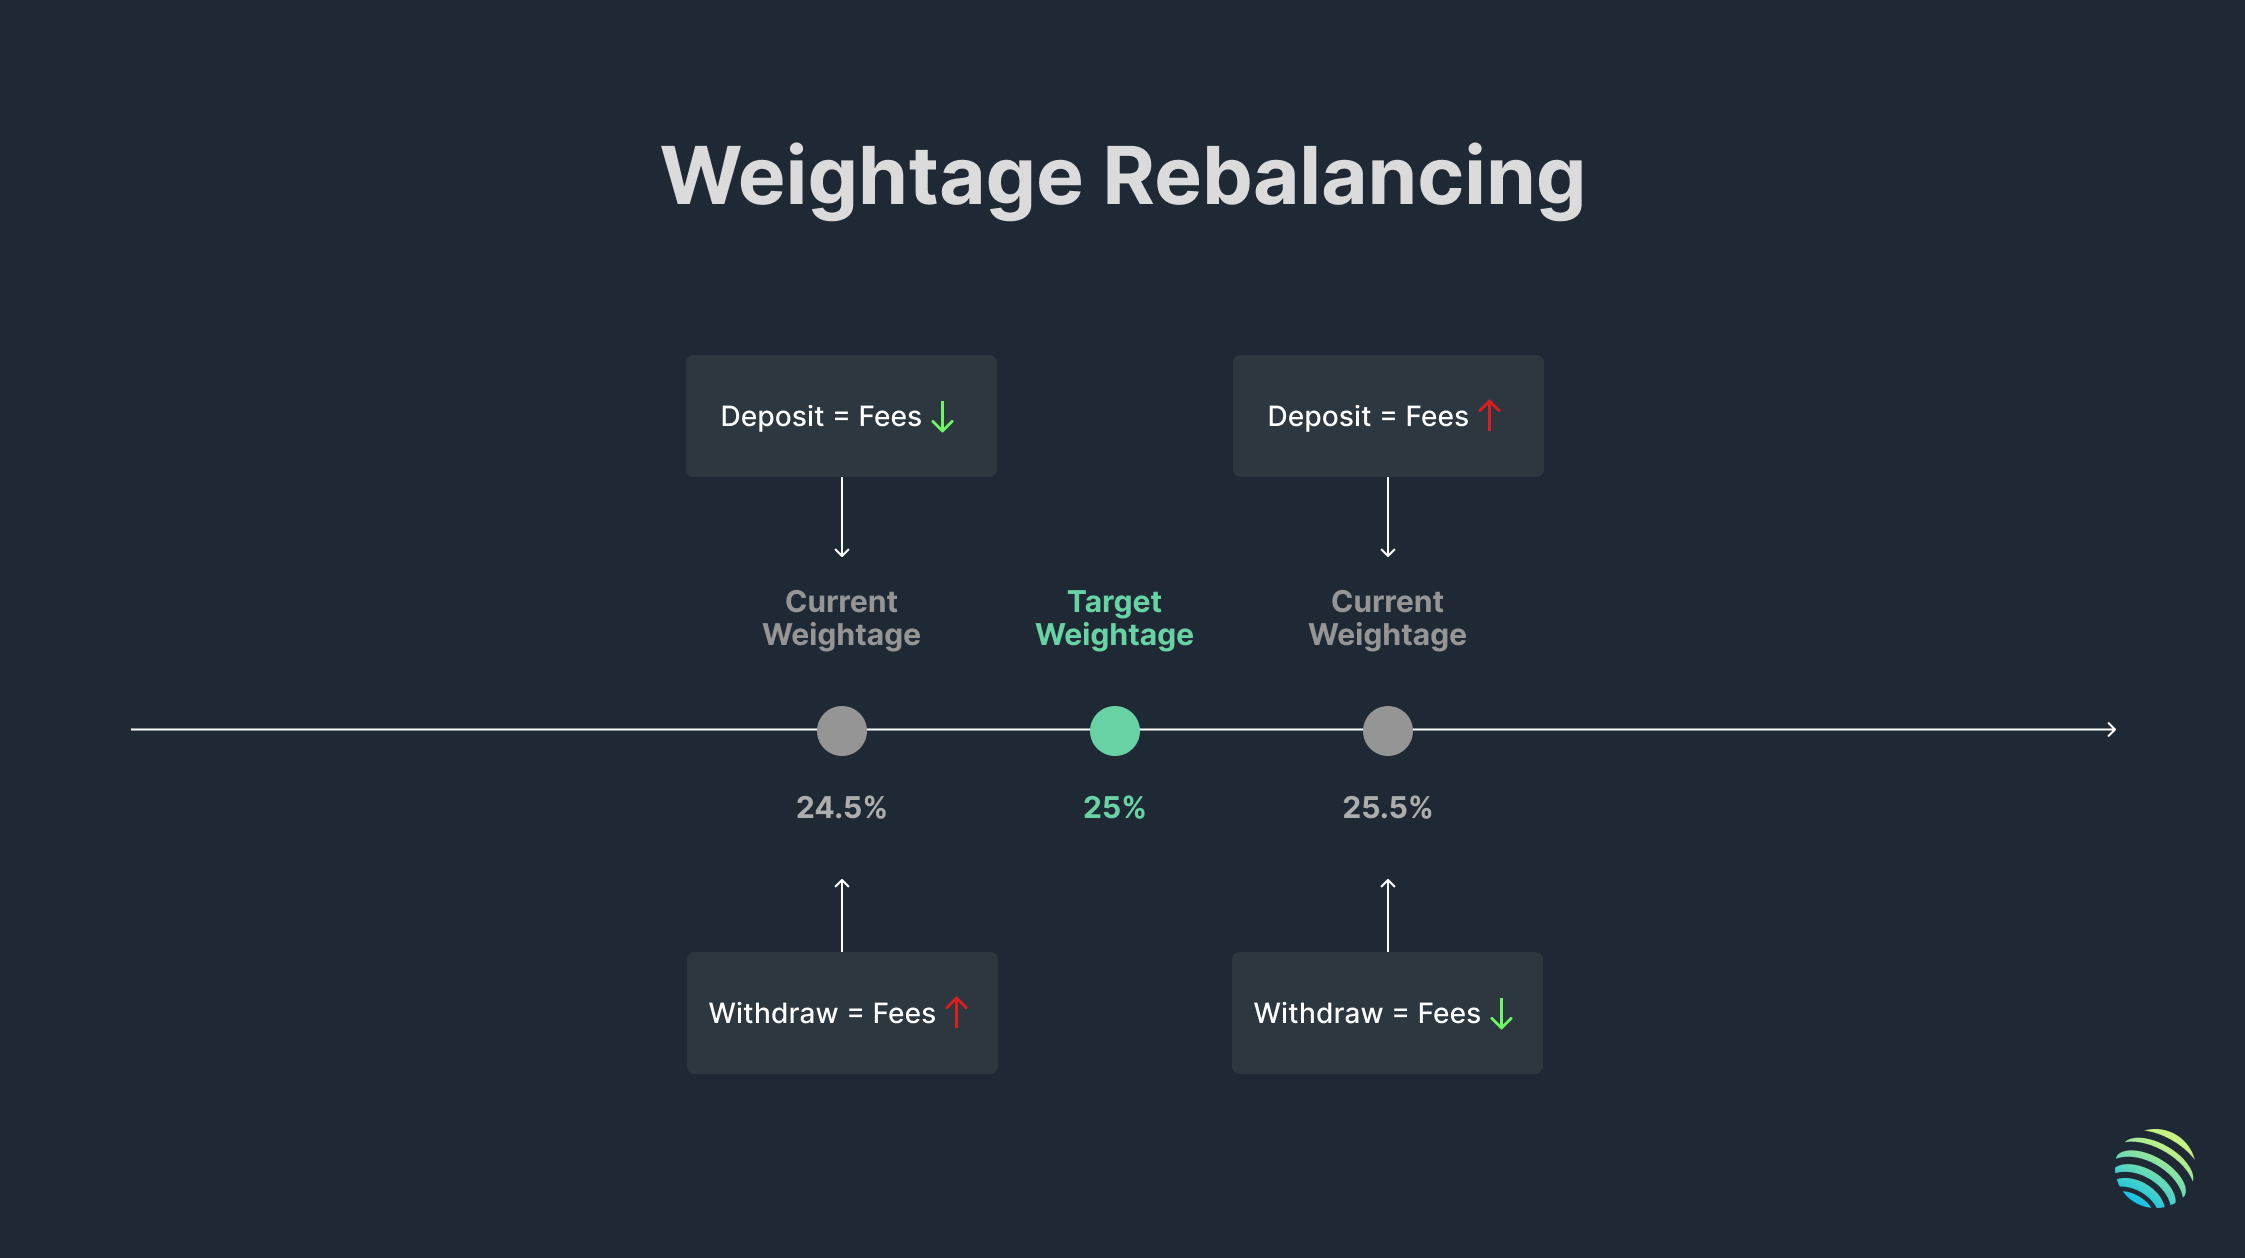
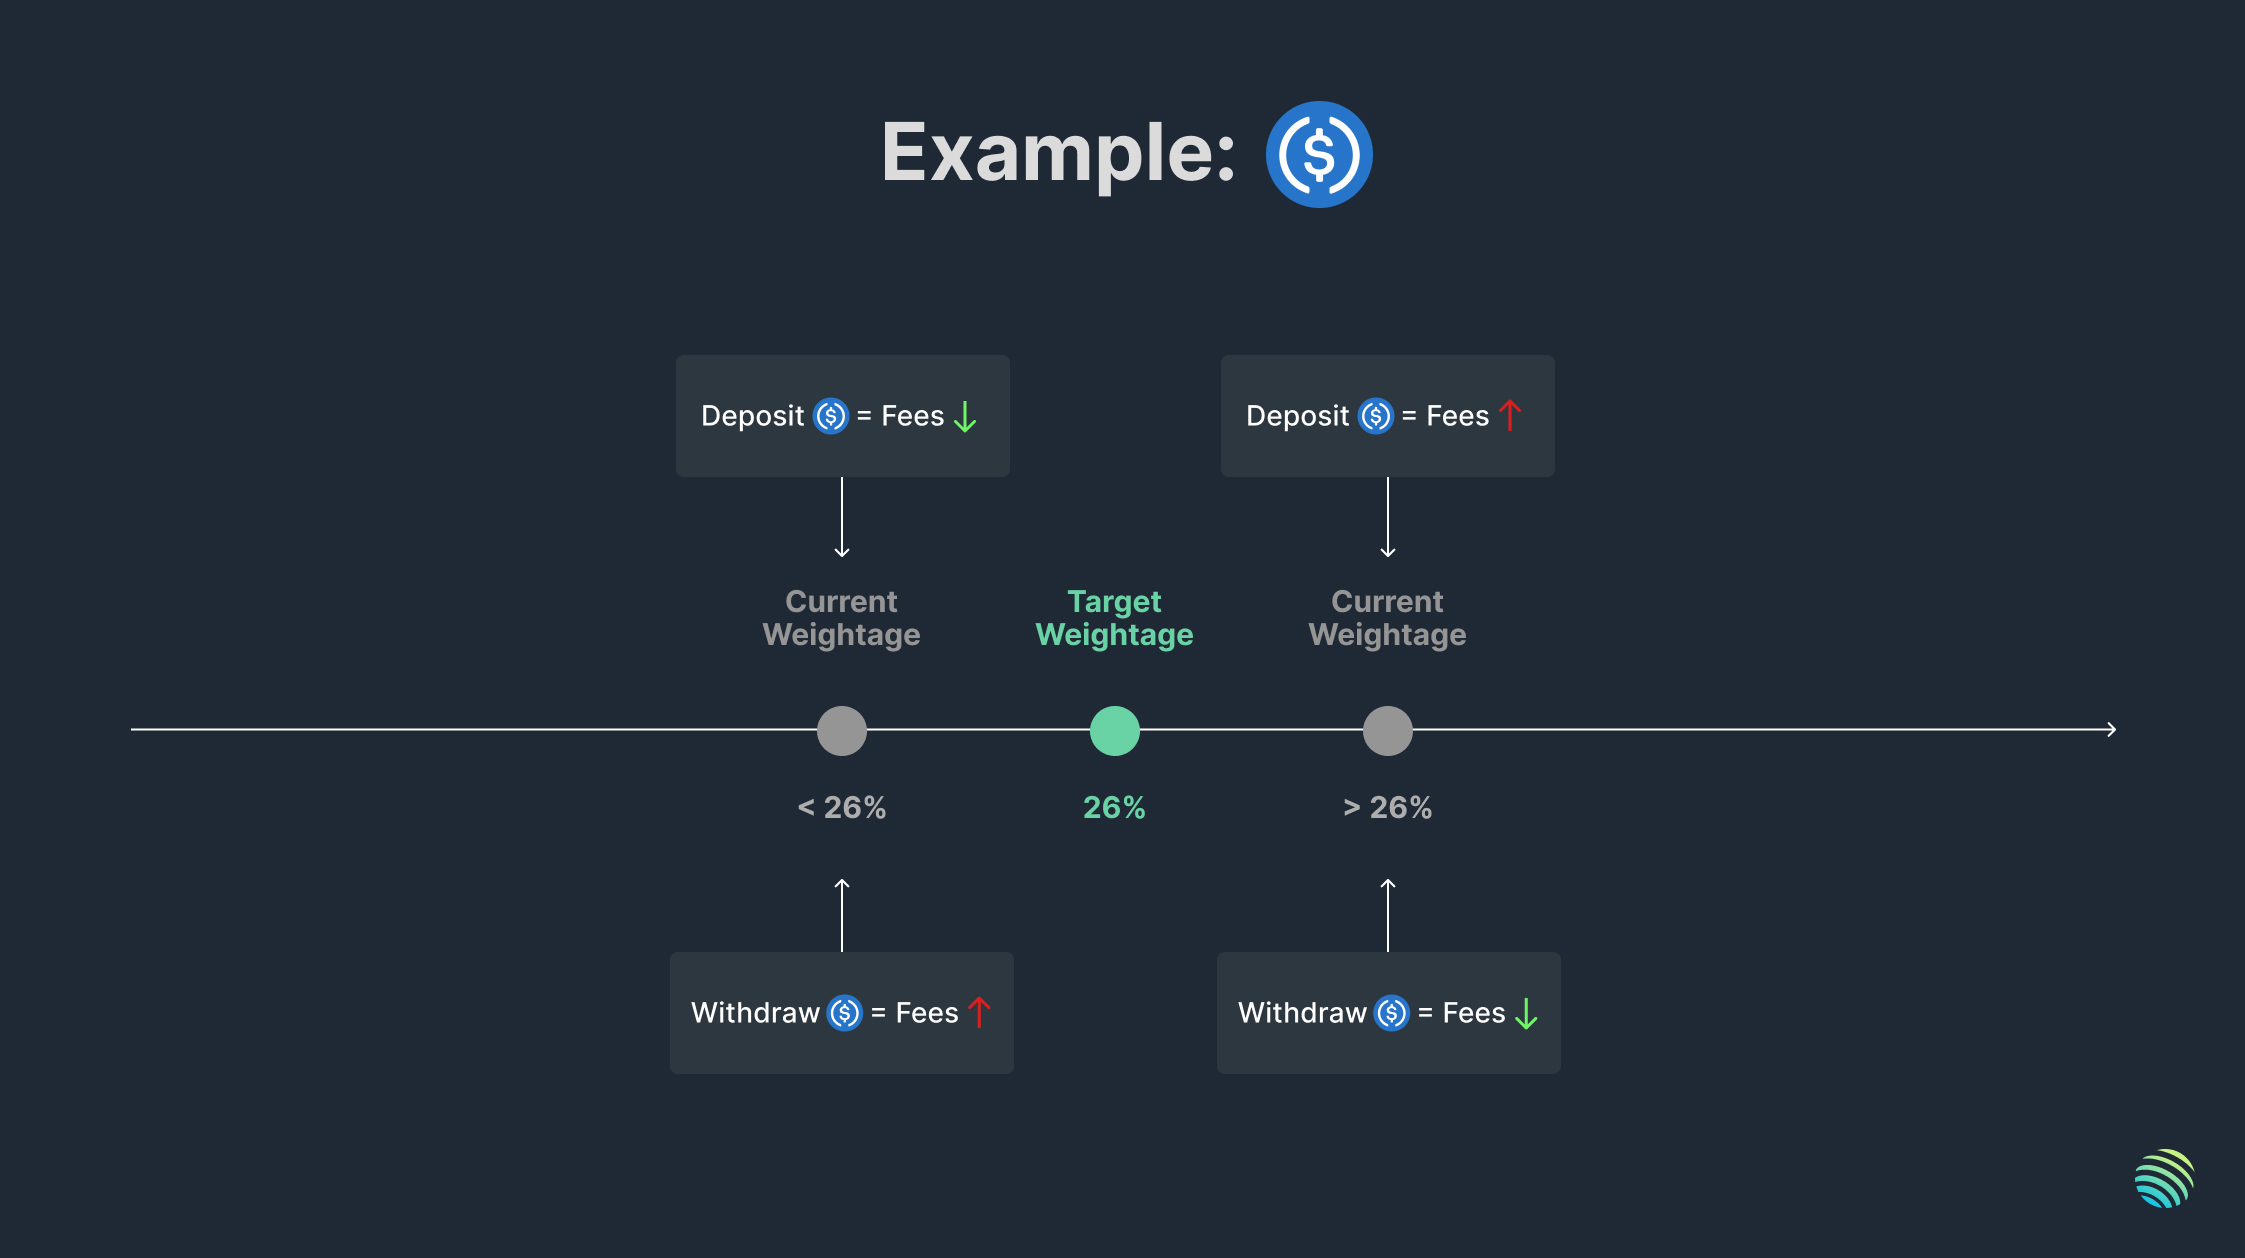
Edit weight rebalancing example

diff --git a/guides/7-jlp/2-How-JLP-Works.md b/guides/7-jlp/2-How-JLP-Works.md
@@ -111,6 +111,11 @@ The weightages of each asset in the JLP pool will differ based on market activit
 
 To help maintain the Target Weight, JLP dynamically sets a Swap Fee or Mint/Redeem Fee.
 
+**Example: $USDC**
+
+- If the current weightage of USDC is **higher** than its advised target weightage, USDC deposits into the JLP Pool will incur additional fees, while USDC withdrawals will receive a fee discount.
+- If the current weightage of USDC is **lower** than its advised target weightage, USDC deposits into the JLP Pool will receive a fee discount, while USDC withdrawals will incur additional fees.
+
 ![weightage-rebalancing](weightage-rebalancing.jpg)
 
 Simply put: Transactions that shift an asset’s current weightage **further away** from the target weightage incur additional fees while transactions that shift it **closer to** the target weightage will receive a discount on fees. This is based on the fee incurred when minting or burning JLP during the swap. 
